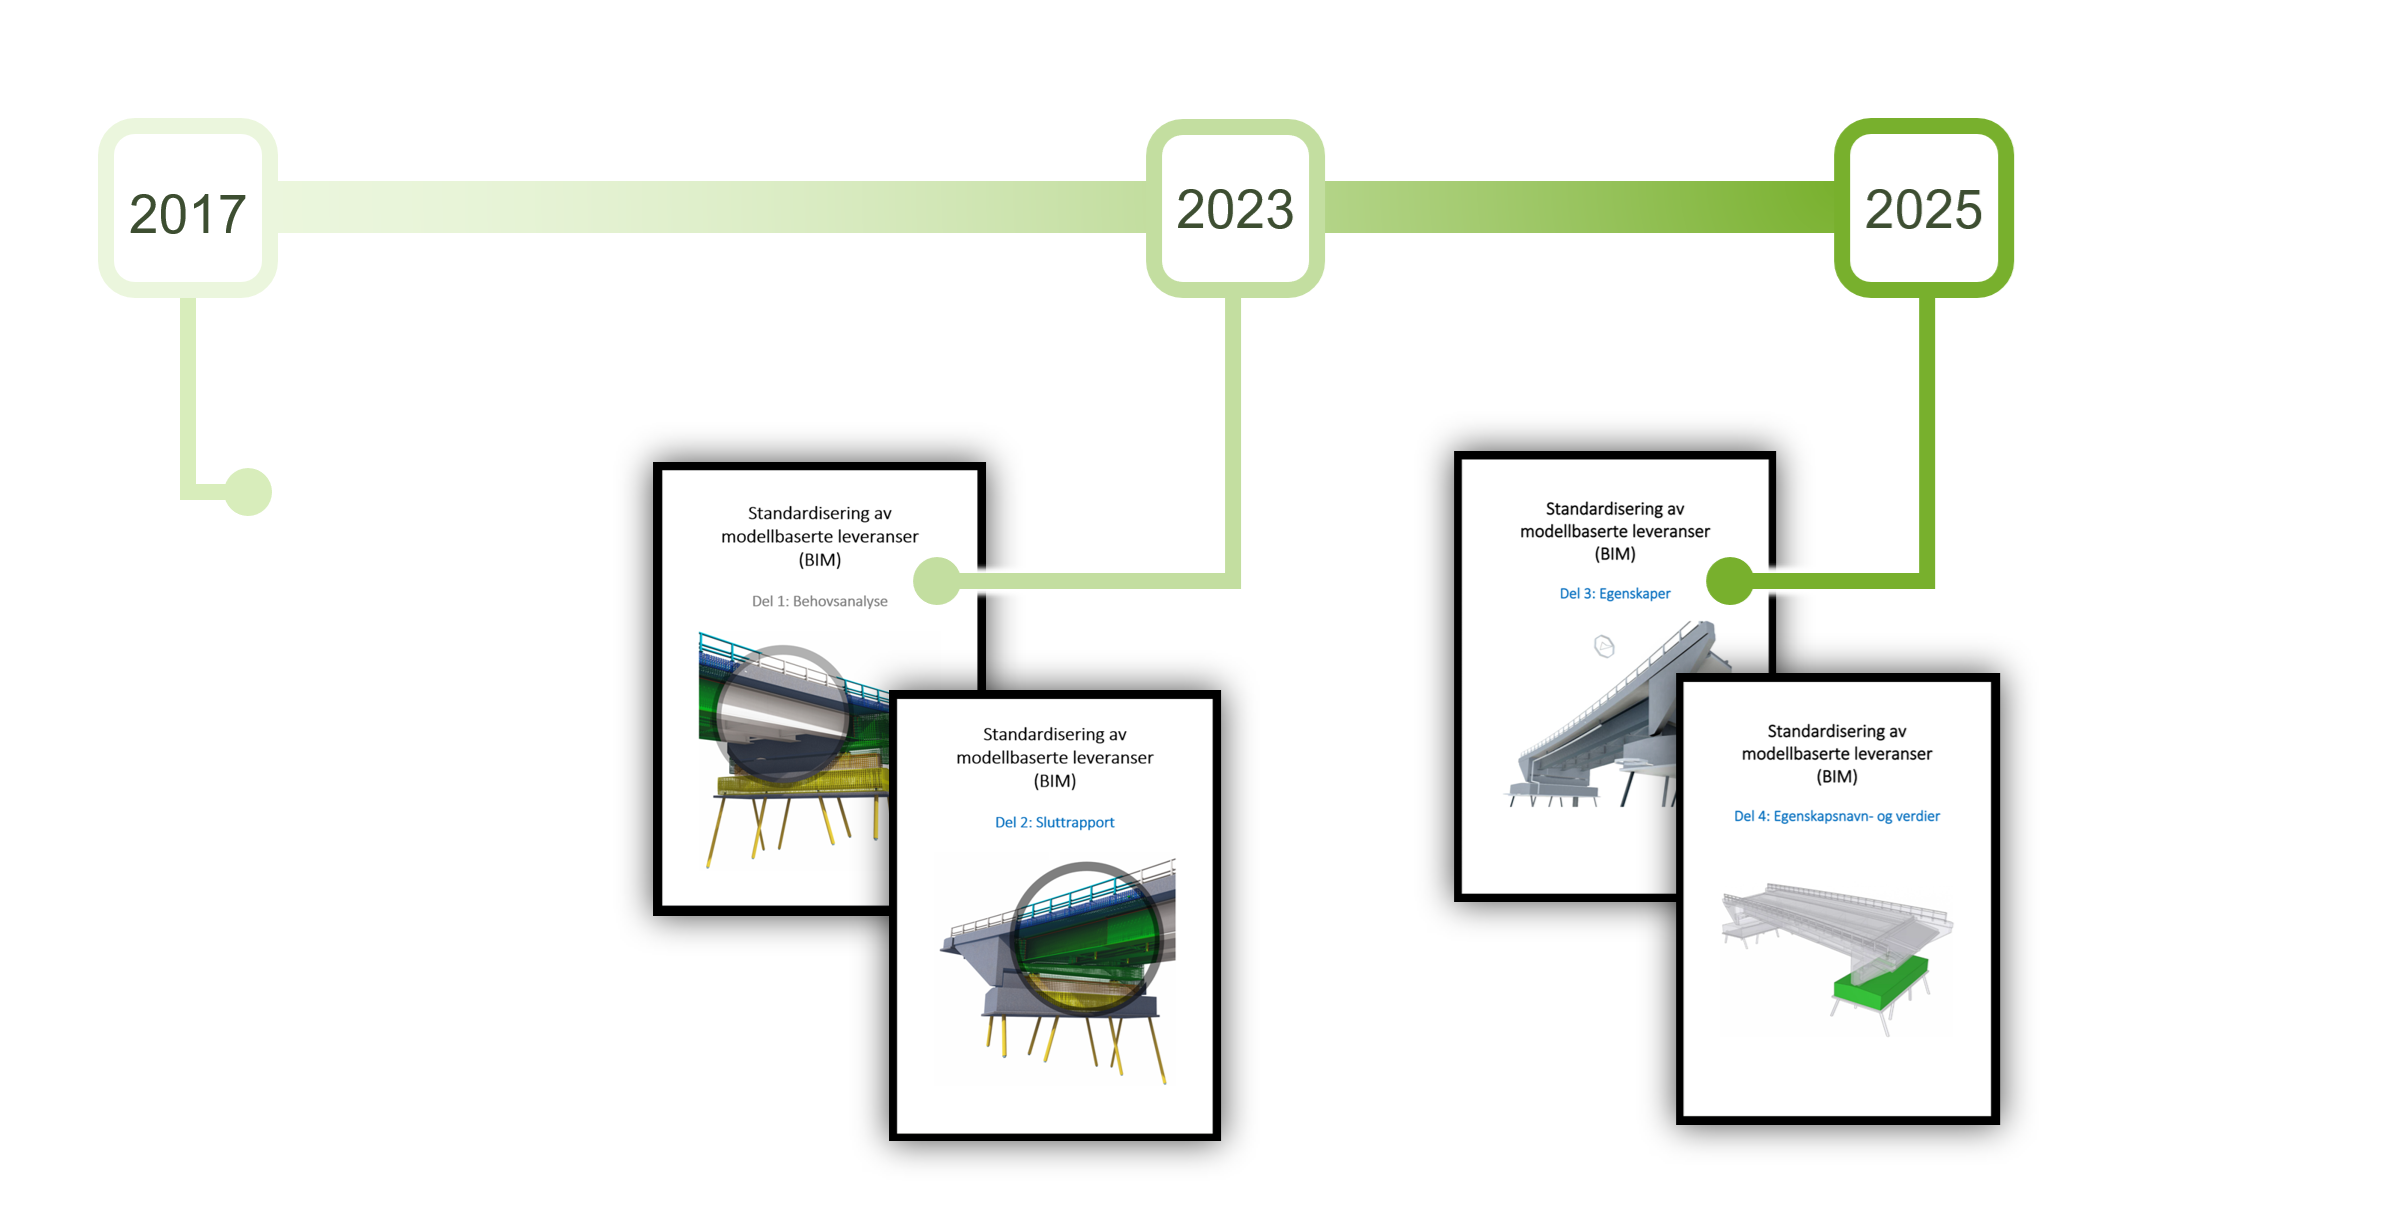
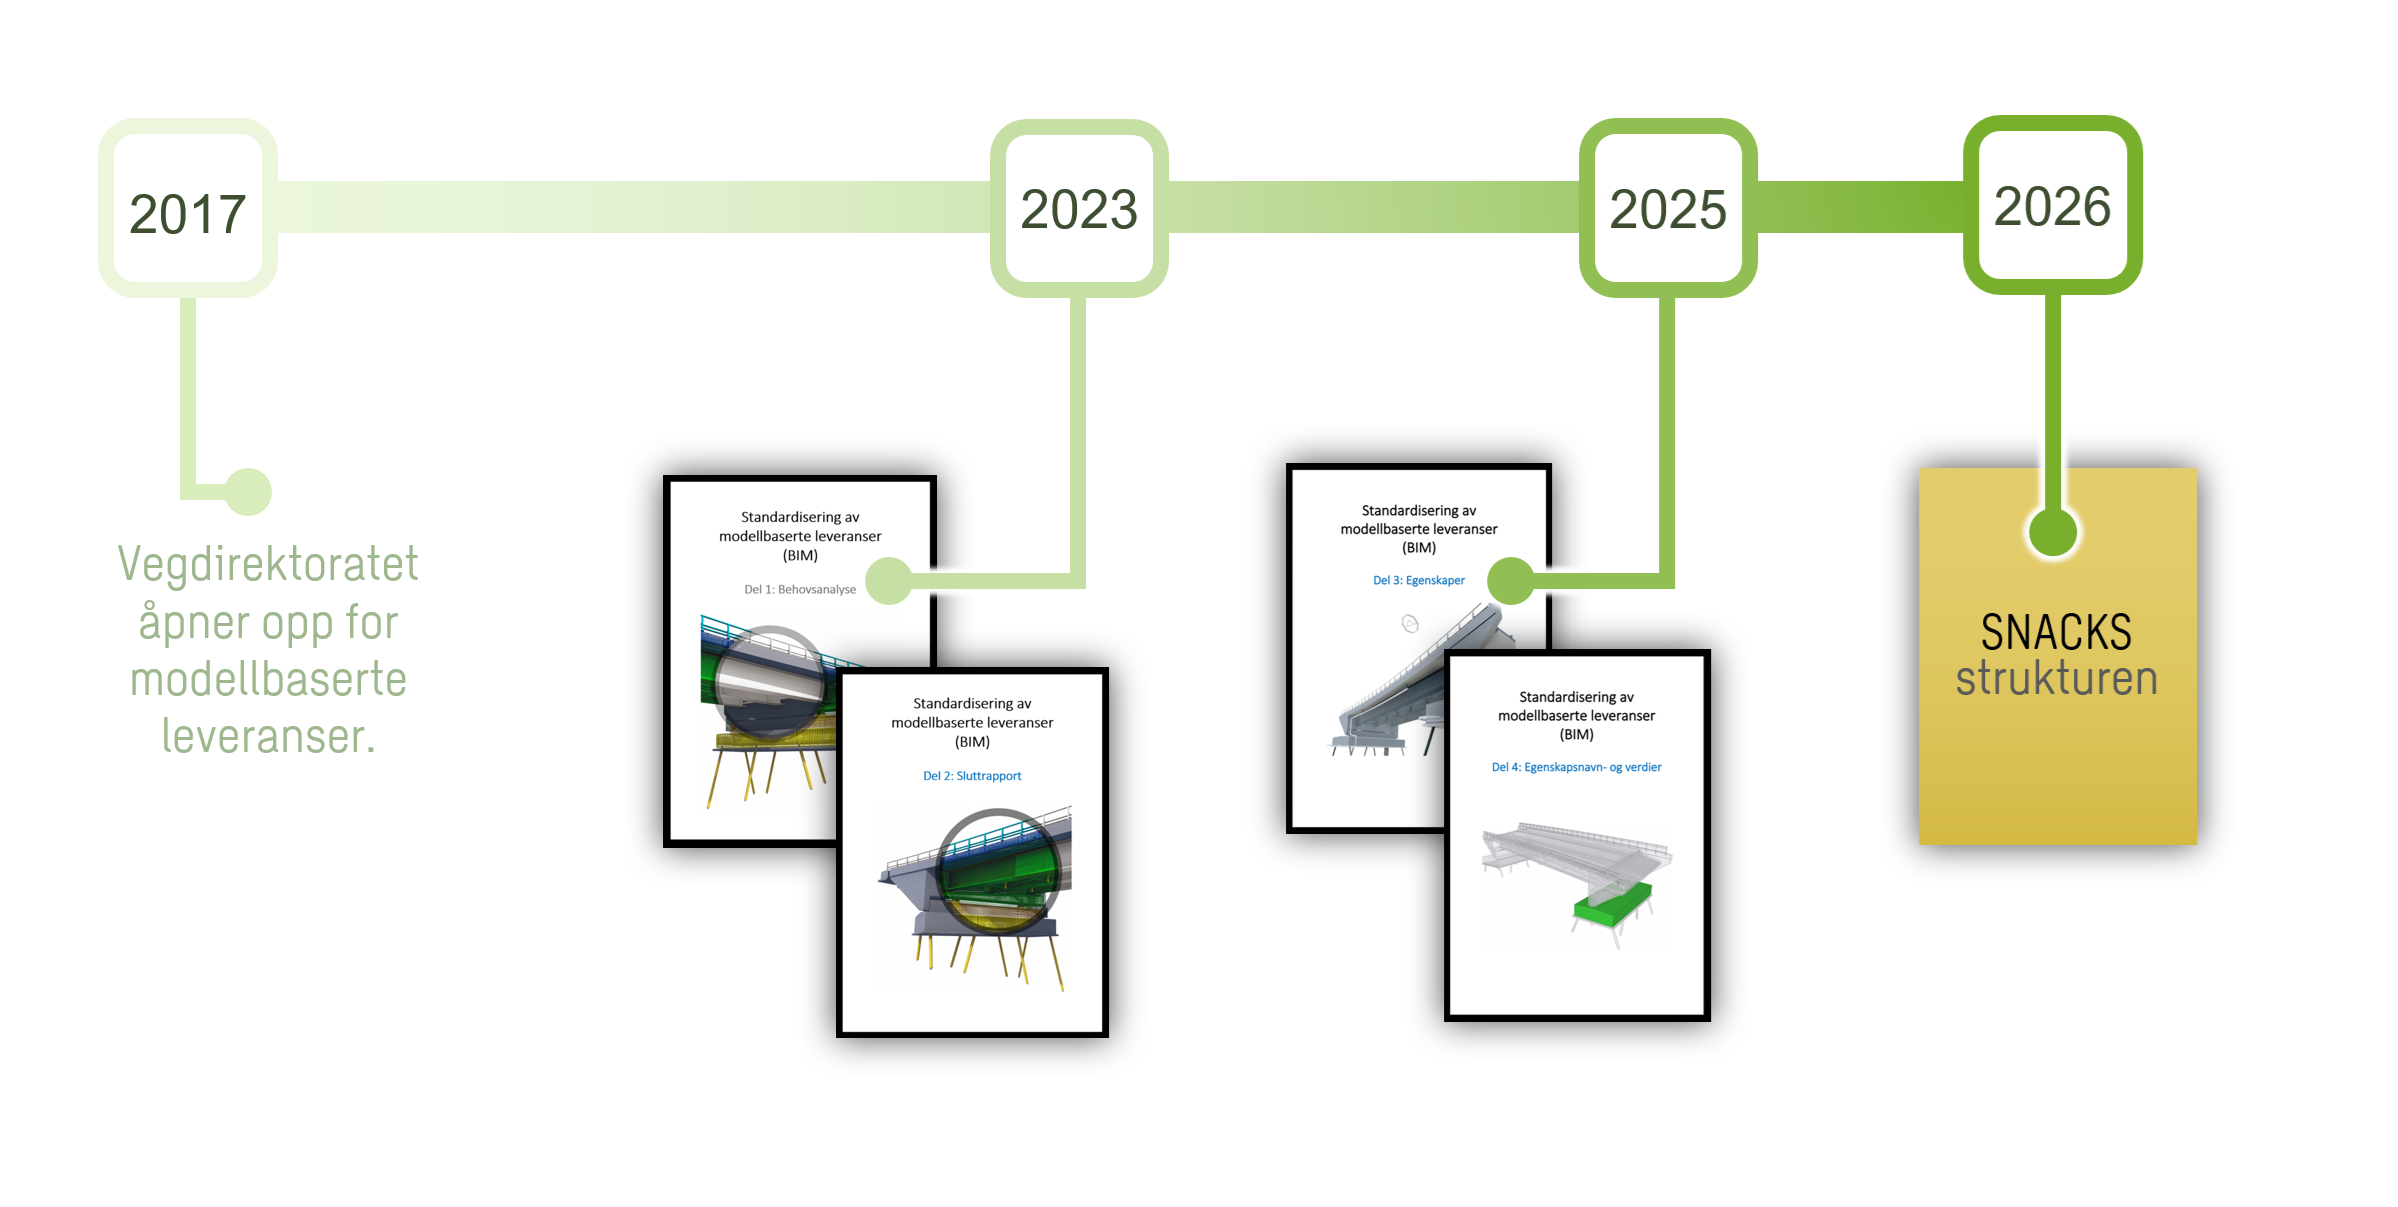
figure uodate history

Changed region(s): [[0.2469, 0.092, 0.9258, 0.9809], [0.0309, 0.4598, 0.1852, 0.6437]]

diff --git a/snacks-app/src/components/Historie.tsx b/snacks-app/src/components/Historie.tsx
@@ -7,9 +7,9 @@ const Historie: React.FC = () => {
       <h2>Historie</h2>
       <div className="historie-visual">
         <img src="/Historie01.png" alt="Historie" className="img-fluid" />
-        <div className="historie-overlay">
+        {/* <div className="historie-overlay">
           <p className="large-text mb-0">Vegdirektoratet åpner opp for modellbaserte leveranser.</p>
-        </div>
+        </div> */}
       </div>
     </div>
   );
